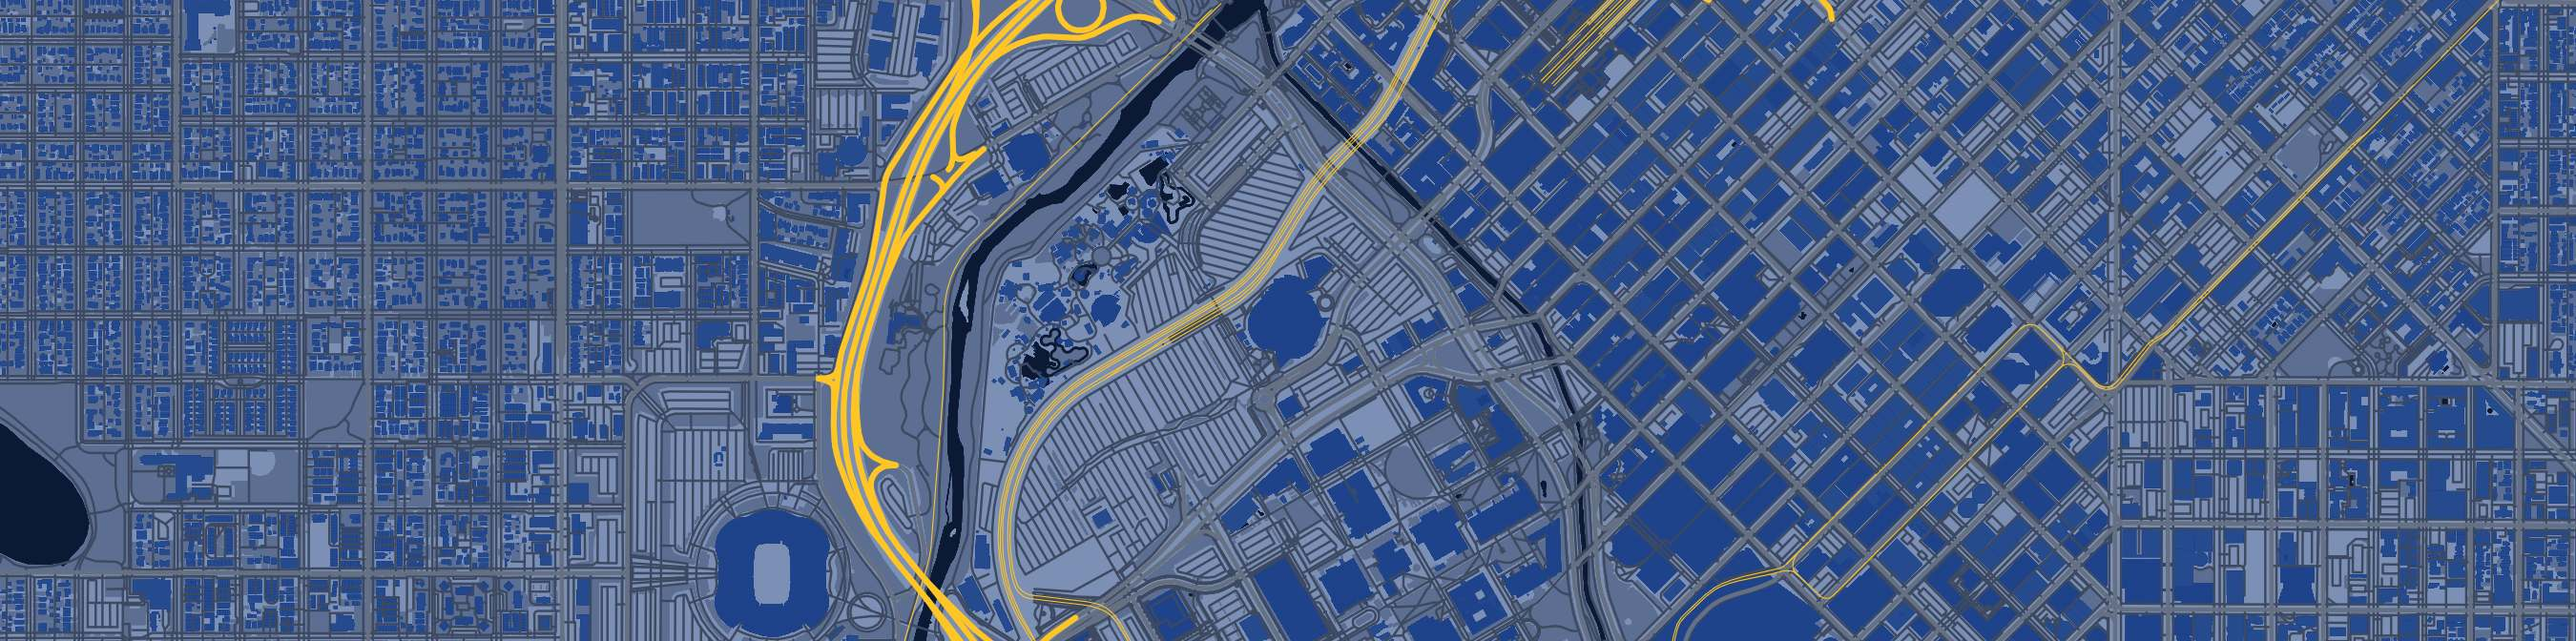
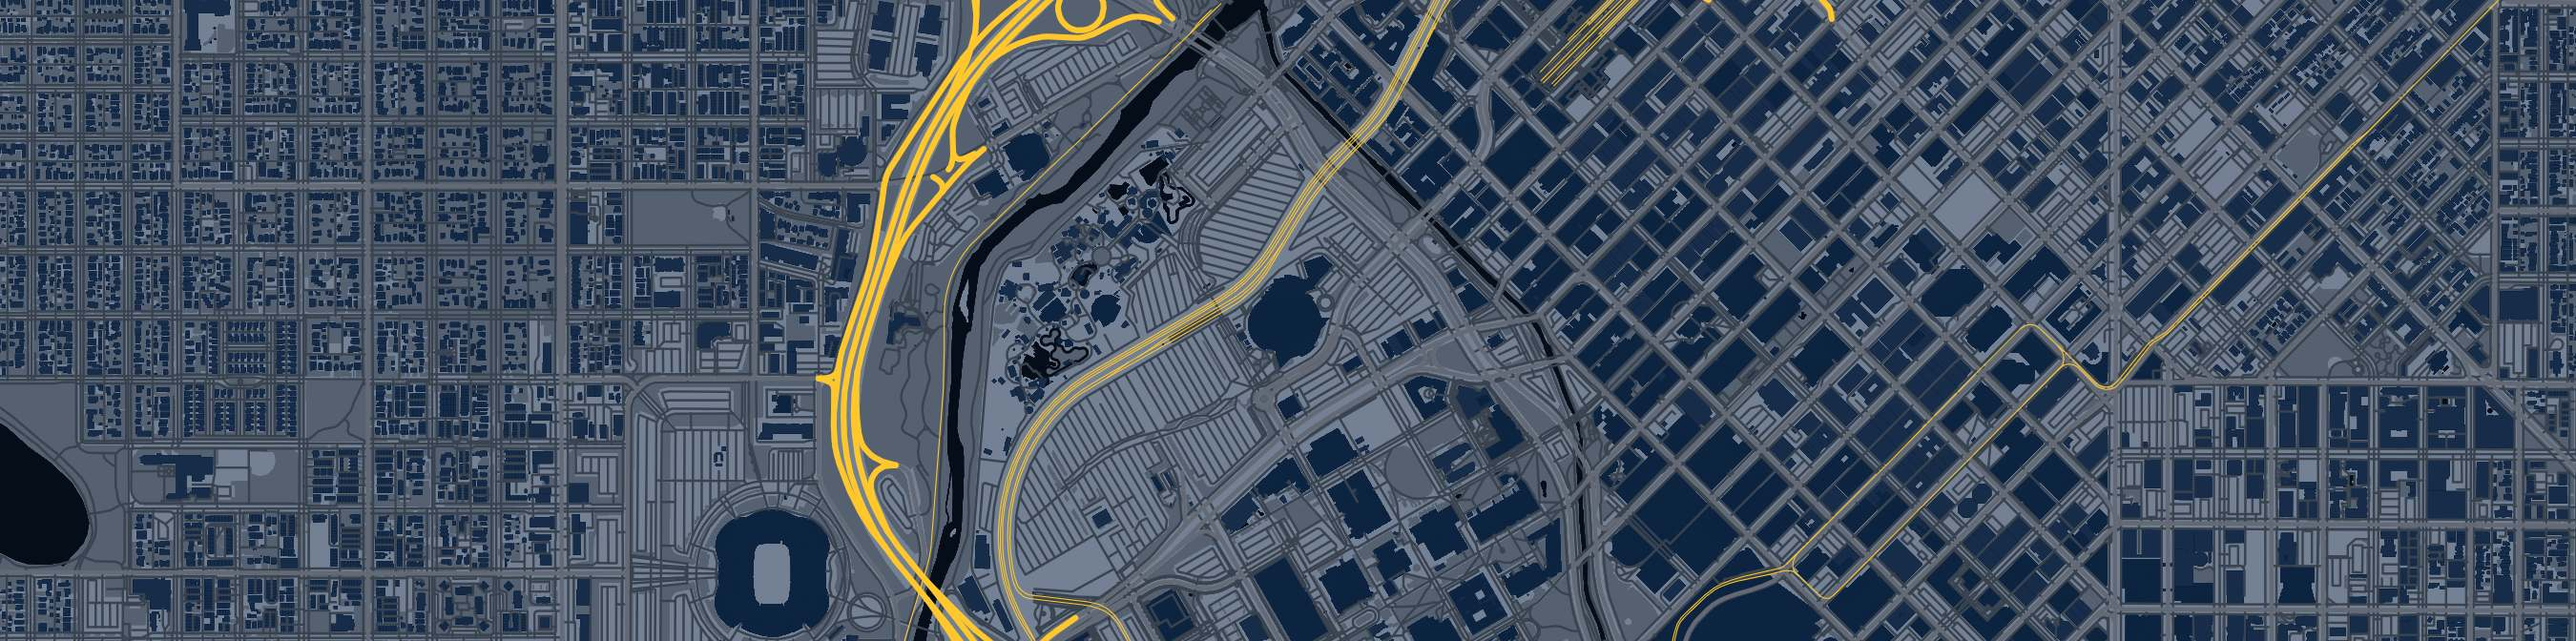
Team colours: Nuggets and Spurs
- Nuggets: Midnight Blue #0C2340 primary, Sunshine Yellow #FFC72C accent;
  jersey white trim and numbers; map re-rendered
- Spurs: black primary, silver #C4CED4 accent; jersey white numbers; map
  re-rendered

diff --git a/src/data/arenaMaps.js b/src/data/arenaMaps.js
@@ -47,7 +47,7 @@ export default {
   CHI: { src: chi, aspect, baseColor: '#4e0619', focal, pin: '#FFFFFF' },
   CLE: { src: cle, aspect, baseColor: '#330015', focal, pin: '#FDBB30' },
   DAL: { src: dal, aspect, baseColor: '#002035', focal, pin: '#B8C4CA' },
-  DEN: { src: den, aspect, baseColor: '#0b1934', focal, pin: '#FEC524' },
+  DEN: { src: den, aspect, baseColor: '#050d18', focal, pin: '#FFC72C' },
   DET: { src: det, aspect, baseColor: '#0b1947', focal, pin: '#C8102E' },
   GSW: { src: gsw, aspect, baseColor: '#0b1934', focal, pin: '#FFC72C' },
   HOU: { src: hou, aspect, baseColor: '#4e0619', focal, pin: '#C4CED4' },
@@ -66,7 +66,7 @@ export default {
   PHX: { src: phx, aspect, baseColor: '#0b0624', focal, pin: '#E56020' },
   POR: { src: por, aspect, baseColor: '#4c0611', focal, pin: '#FFFFFF' },
   SAC: { src: sac, aspect, baseColor: '#221131', focal, pin: '#C4CED4' },
-  SAS: { src: sas, aspect, baseColor: '#34383b', focal, pin: '#FFFFFF' },
+  SAS: { src: sas, aspect, baseColor: '#000000', focal, pin: '#C4CED4' },
   TOR: { src: tor, aspect, baseColor: '#4e0619', focal, pin: '#B4975A' },
   UTA: { src: uta, aspect, baseColor: '#1e0036', focal, pin: '#79A3DB' },
   WAS: { src: was, aspect, baseColor: '#001023', focal, pin: '#E31837' },
